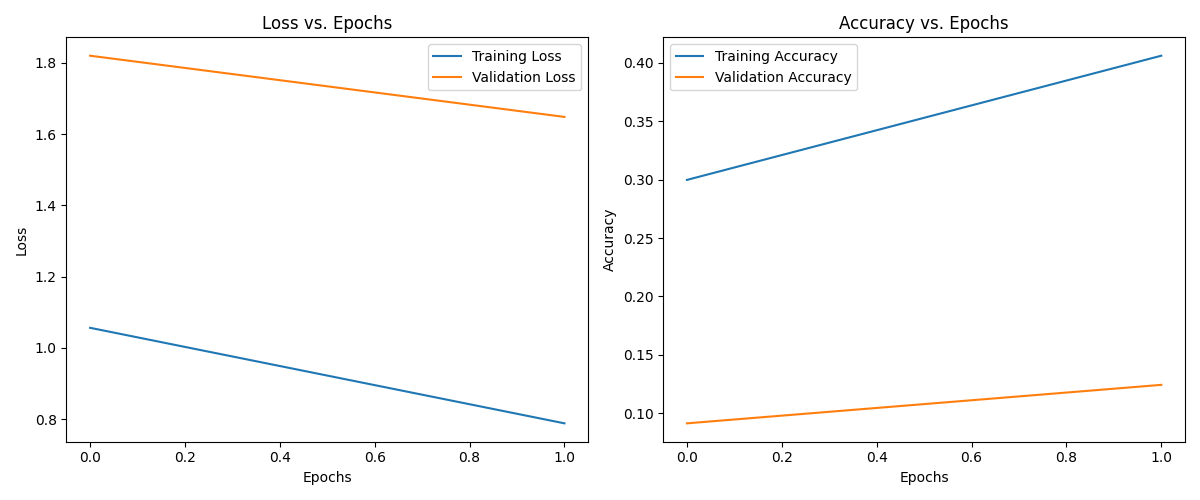
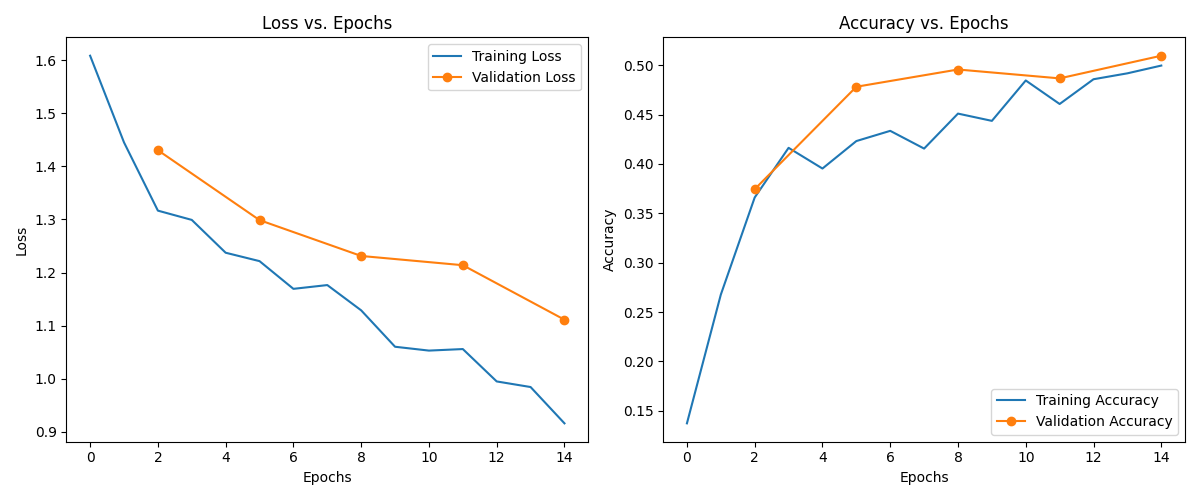
adjust implemantion of sampler

diff --git a/main3.py b/main3.py
@@ -22,21 +22,24 @@ from pathlib import Path
 class ModelConfig:
     # Data parameters
     batch_size: int = 32
-    image_size: tuple = (64, 48)  # image is rectangular with og size 600x450
+    image_size: tuple = (64, 48)  # Increased resolution for better feature extraction
     train_split: float = 0.8
 
     # Model parameters
-    conv_channels: list = (32, 64, 128)
-    fc_features: list = (512, 256)
-    dropout_rates_conv: list = (0.1, 0.2, 0.3)
-    dropout_rates_fc: list = (0.5, 0.4)
+    conv_channels: list = (32, 64, 128, 256)  # Added another conv layer
+    fc_features: list = (512, 256, 128)  # Added another FC layer
+    dropout_rates_conv: list = (0.1, 0.15, 0.2, 0.25)  # More gradual dropout increase
+    dropout_rates_fc: list = (0.4, 0.3, 0.2)  # Decreasing dropout in FC layers
 
     # Training parameters
-    learning_rate: float = 1e-3
-    weight_decay: float = 1e-5
-    epochs: int = 10
-    scheduler_factor: float = 0.5
-    scheduler_patience: int = 2
+    learning_rate: float = 5e-4  # Slightly lower learning rate
+    weight_decay: float = 2e-5  # Increased regularization
+    epochs: int = 15  # More epochs for better convergence
+    scheduler_factor: float = 0.7  # Less aggressive LR reduction
+    scheduler_patience: int = 3  # More patience before reducing LR
+
+    # Class weight parameters
+    class_weight_power: float = 0.3  # Use this to control weight intensity in the sampler
 
     # Paths
     model_save_path: str = "skin_lesion_model.pth"
@@ -211,9 +214,10 @@ def create_class_balanced_sampler(dataset):
         if label not in class_counts:
             class_counts[label] = 0
         class_counts[label] += 1
-
-    # Calculate weights for each sample
-    weights = [1.0 / class_counts[all_labels[i]] for i in range(len(all_labels))]
+        
+    print("class_counts", class_counts)
+    # Calculate weights for each sample with reduced balancing effect
+    weights = [1.0 / (class_counts[all_labels[i]] ** config.class_weight_power) for i in range(len(all_labels))]
     weights = torch.DoubleTensor(weights)
 
     # Create a sampler that samples with replacement according to the weights
@@ -307,6 +311,8 @@ class CNNModel(nn.Module):
         x = self.fc_layers(x)
         return x
 
+
+# Define a secont model
 
 device = (
     torch.accelerator.current_accelerator().type
@@ -488,7 +494,7 @@ def train_model(model, train_loader, test_loader, optimizer, loss_fn, epochs):
         train_accs.append(epoch_acc)
 
         # Only evaluate on test set every 5 epochs or on the final epoch
-        if (t + 1) % 5 == 0 or t == epochs - 1:
+        if (t + 1) % 3 == 0 or t == epochs - 1:
             test_loss, test_acc = test(test_loader, model, loss_fn, epoch=t)
             test_losses.append(test_loss)
             test_accs.append(test_acc)
@@ -573,6 +579,7 @@ with mlflow.start_run(run_name=config.run_name):
             "train_split": config.train_split,
             "num_classes": len(diagnosis_to_idx),
             "class_mapping": diagnosis_to_idx,
+            "class_weight_power": config.class_weight_power,
         }
     )
 
